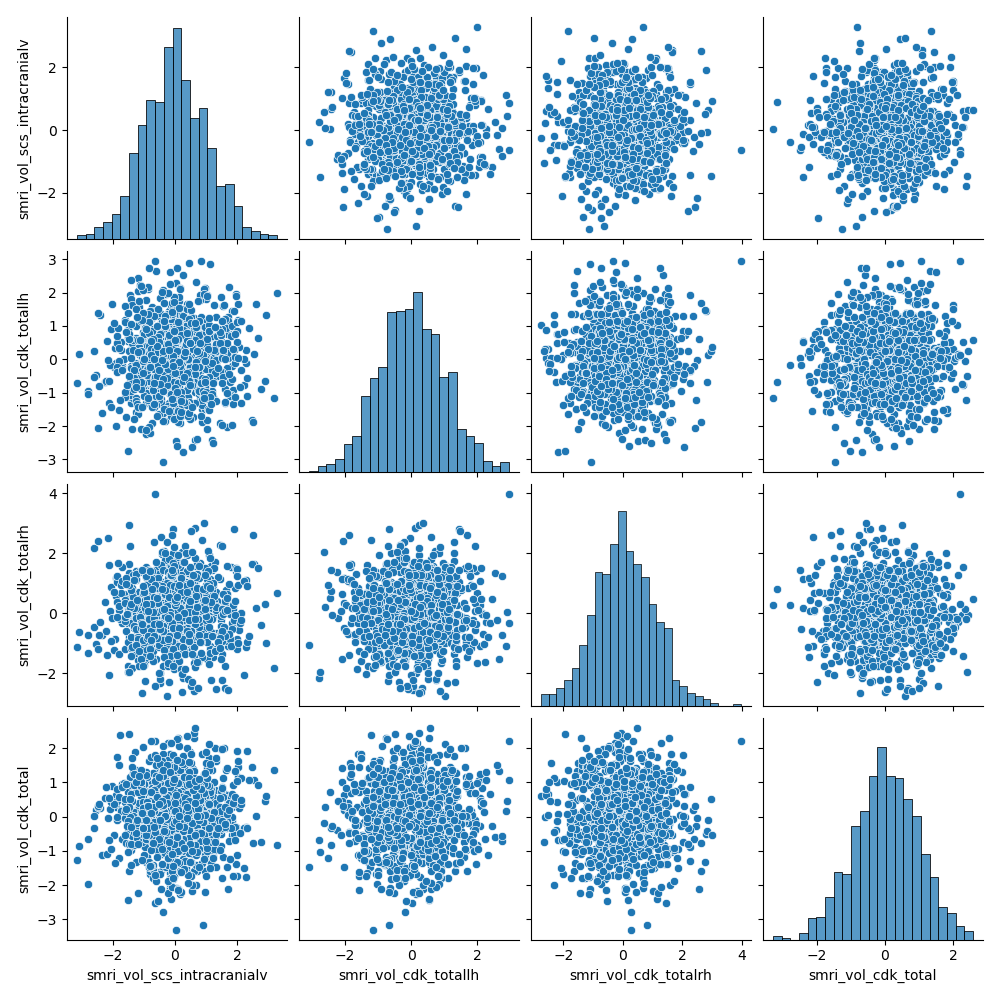
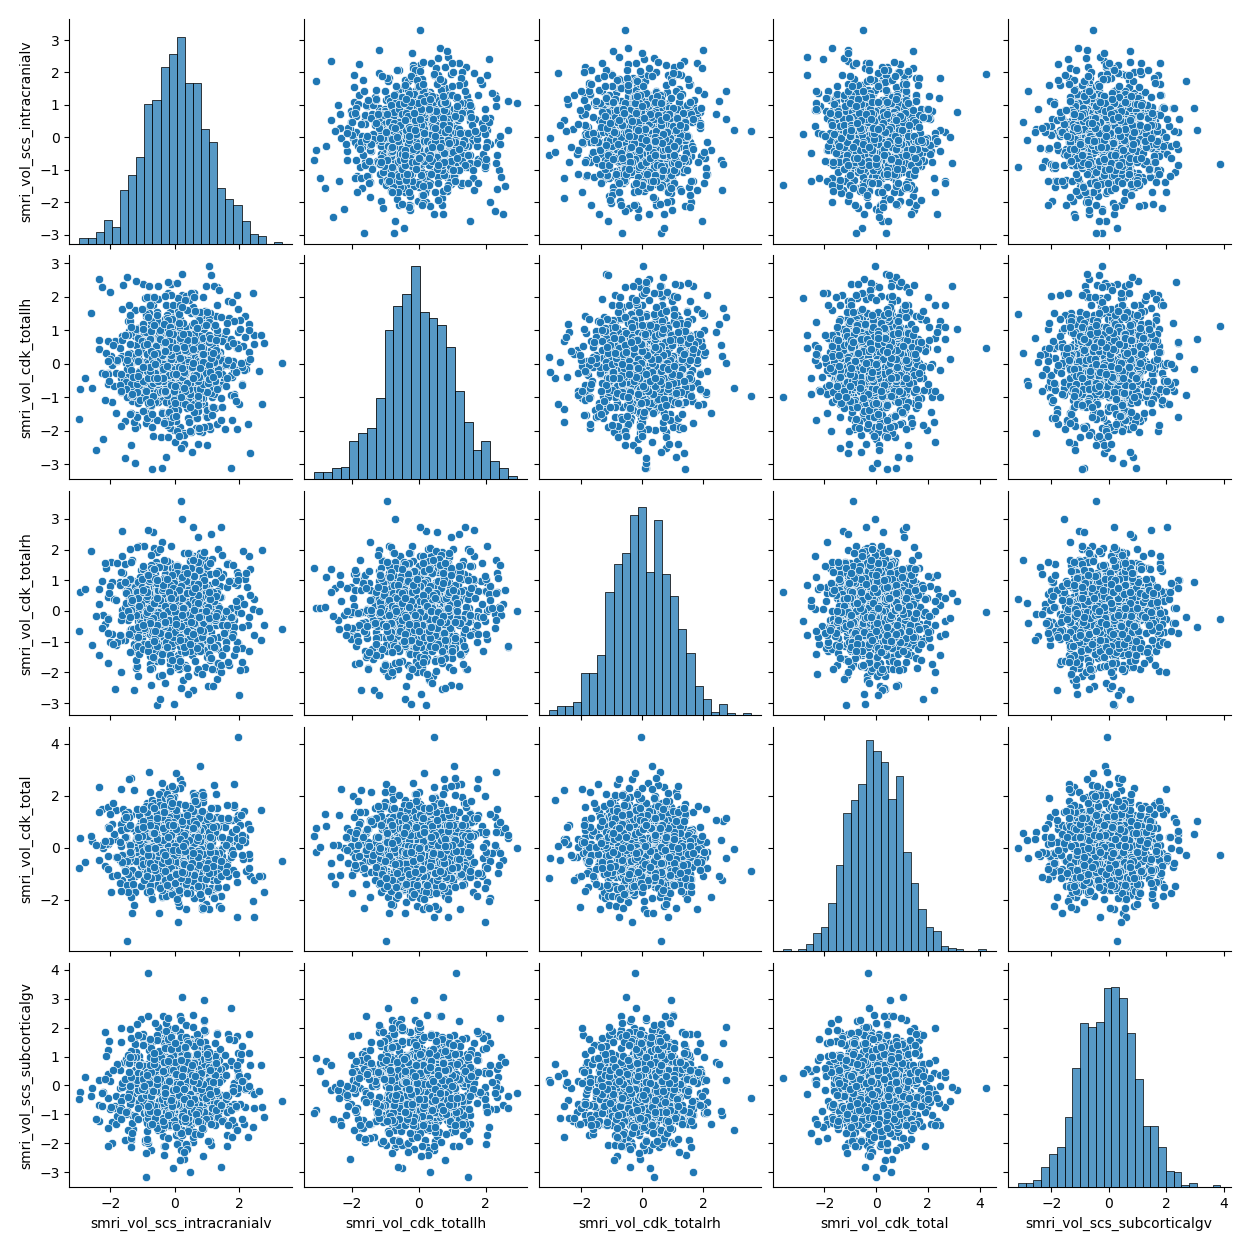
add some descriptive text for pairs plots

diff --git a/docs/visualization.md b/docs/visualization.md
@@ -19,6 +19,8 @@ kernelspec:
 You may be exploring correlations between brain statistics and behavioral/clinical correlates. With each brain statistic being calculated across many different ROIs, and with many behavioral correlates, you can generate scatterplots in _small multiples_ in order to see the range of correlations as efficiently as possible.
 
 ````{tab} R
+[`ggpairs()`](https://ggobi.github.io/ggally/articles/ggpairs.html) from the `GGally` package will produce a flexible scatterplot matrix for exploratory visual data analysis. The plot is a `ggplot2` object under the hood, so you can modify `theme()` elements. However, `GGally` plot matrix objects don't behave exactly like single ggplots, so the syntax for modifying other plot aesthetics is slightly different.
+
 ```{code-block} r
 library(dplyr)
 library(GGally)
@@ -32,6 +34,7 @@ data %>%
 ```
 ````
 ````{tab} Python
+[`pairplot()`](https://seaborn.pydata.org/generated/seaborn.pairplot.html) from the `seaborn` package will produce a flexible scatterplot matrix for exploratory visual data analysis. The plot is a `matplotlib` object under the hood, and can be manipulated as such.
 ```{code-block} python
 import pandas as pd
 import seaborn as sns
